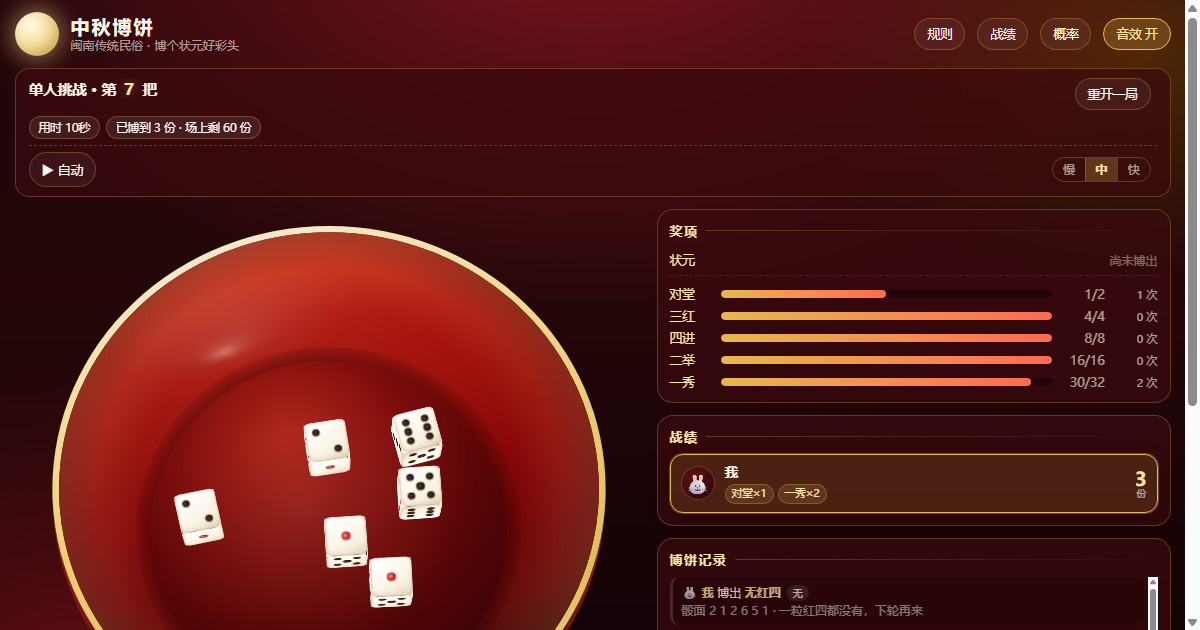
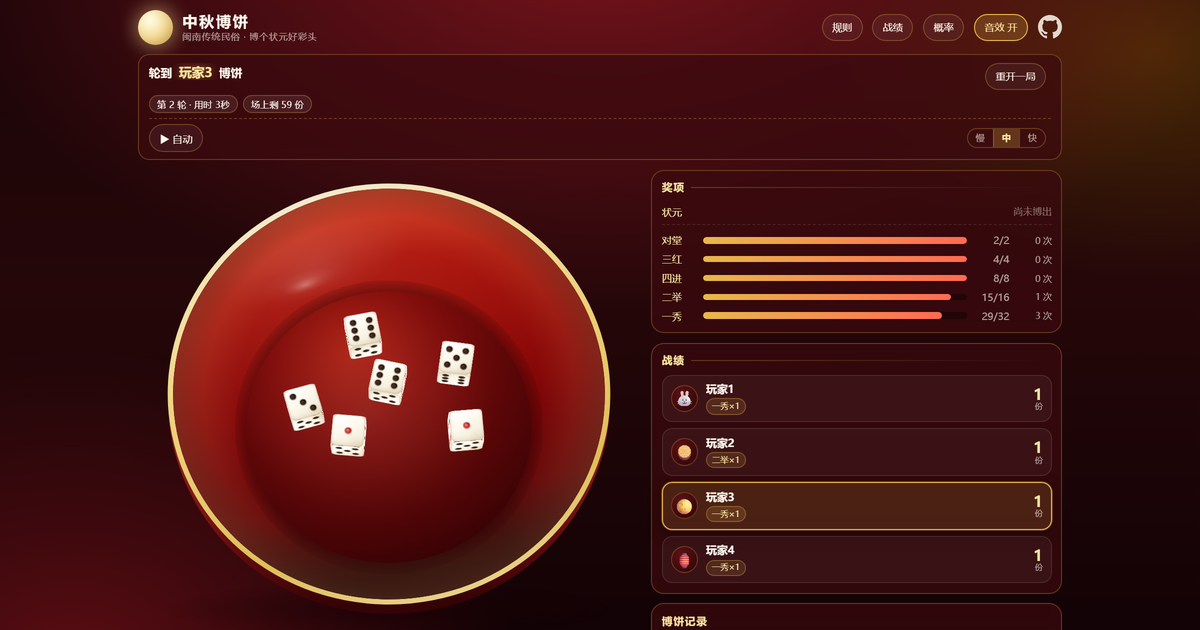
预览图重做：完整一屏大图（碗/骰子/奖项/战绩/记录全在框内）+ 手机端截图 + 自动模式动图进 README；社交卡片图同步换为完整版

diff --git a/README.md b/README.md
@@ -9,7 +9,16 @@
 
 单文件、零依赖的闽南中秋博饼网页游戏——**打开就能玩，不用装任何东西**，也能开房间和朋友跨设备联机。
 
-![游戏截图](preview.png)
+![游戏截图](preview-full.png)
+
+**自动模式**（挂机也能一路博到本局结束，骰子在碗里翻滚、战绩实时累计）：
+
+![自动模式连博](gif-auto.gif)
+
+手机上也一样（顶栏、碗与骰子按屏幕自适应）：
+
+<img src="preview-mobile.png" alt="手机端" width="300"> 
+
 
 | 入口 | 地址 | 说明 |
 |---|---|---|
